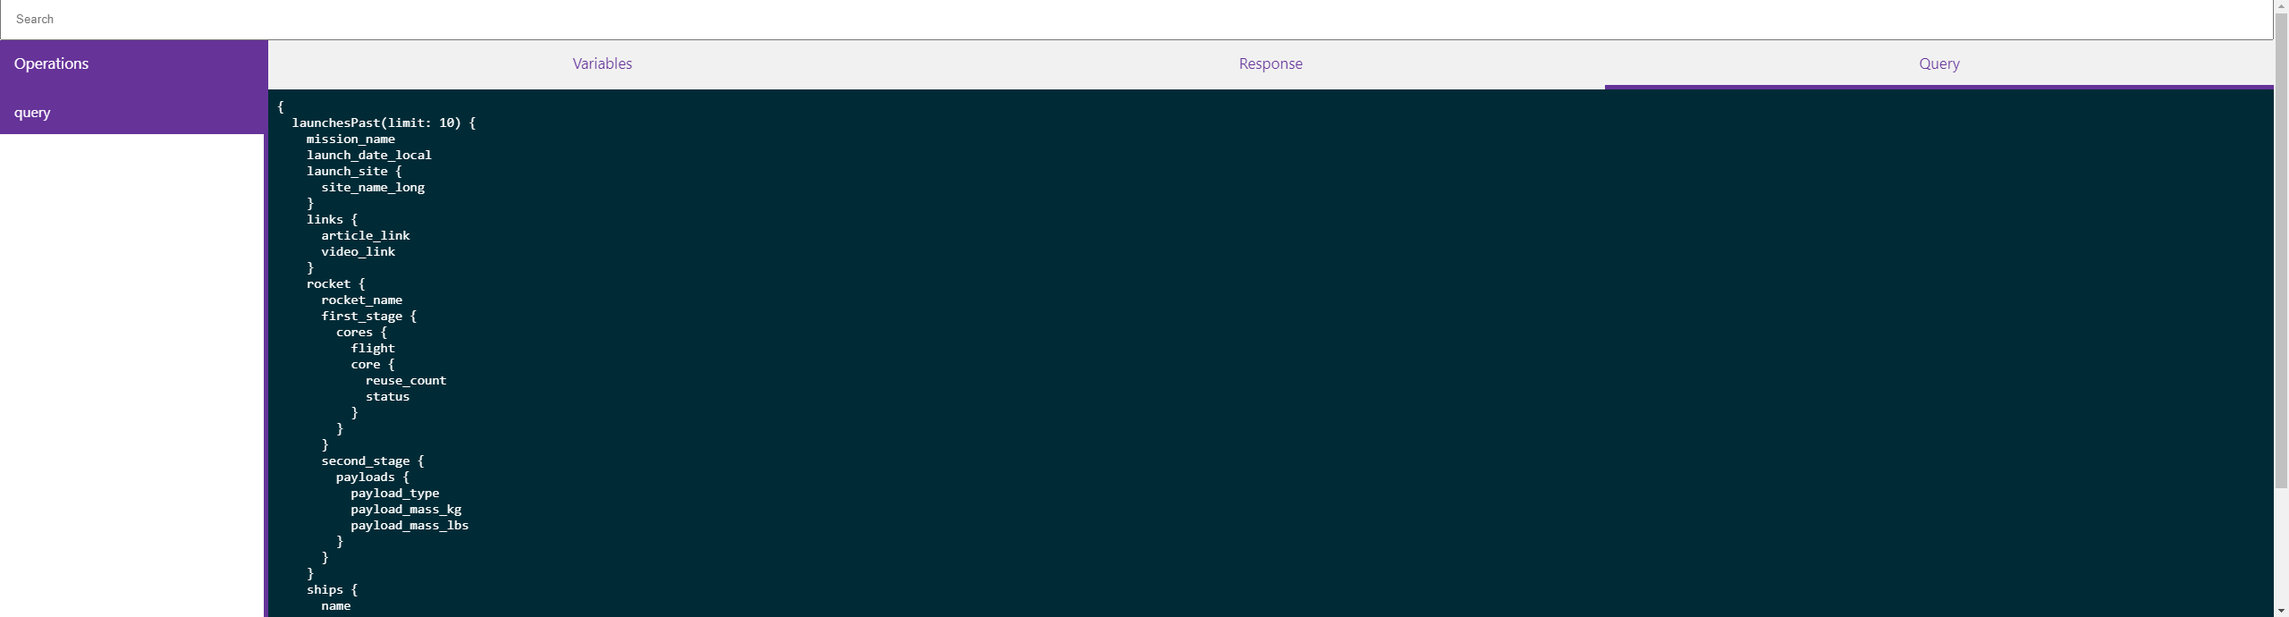
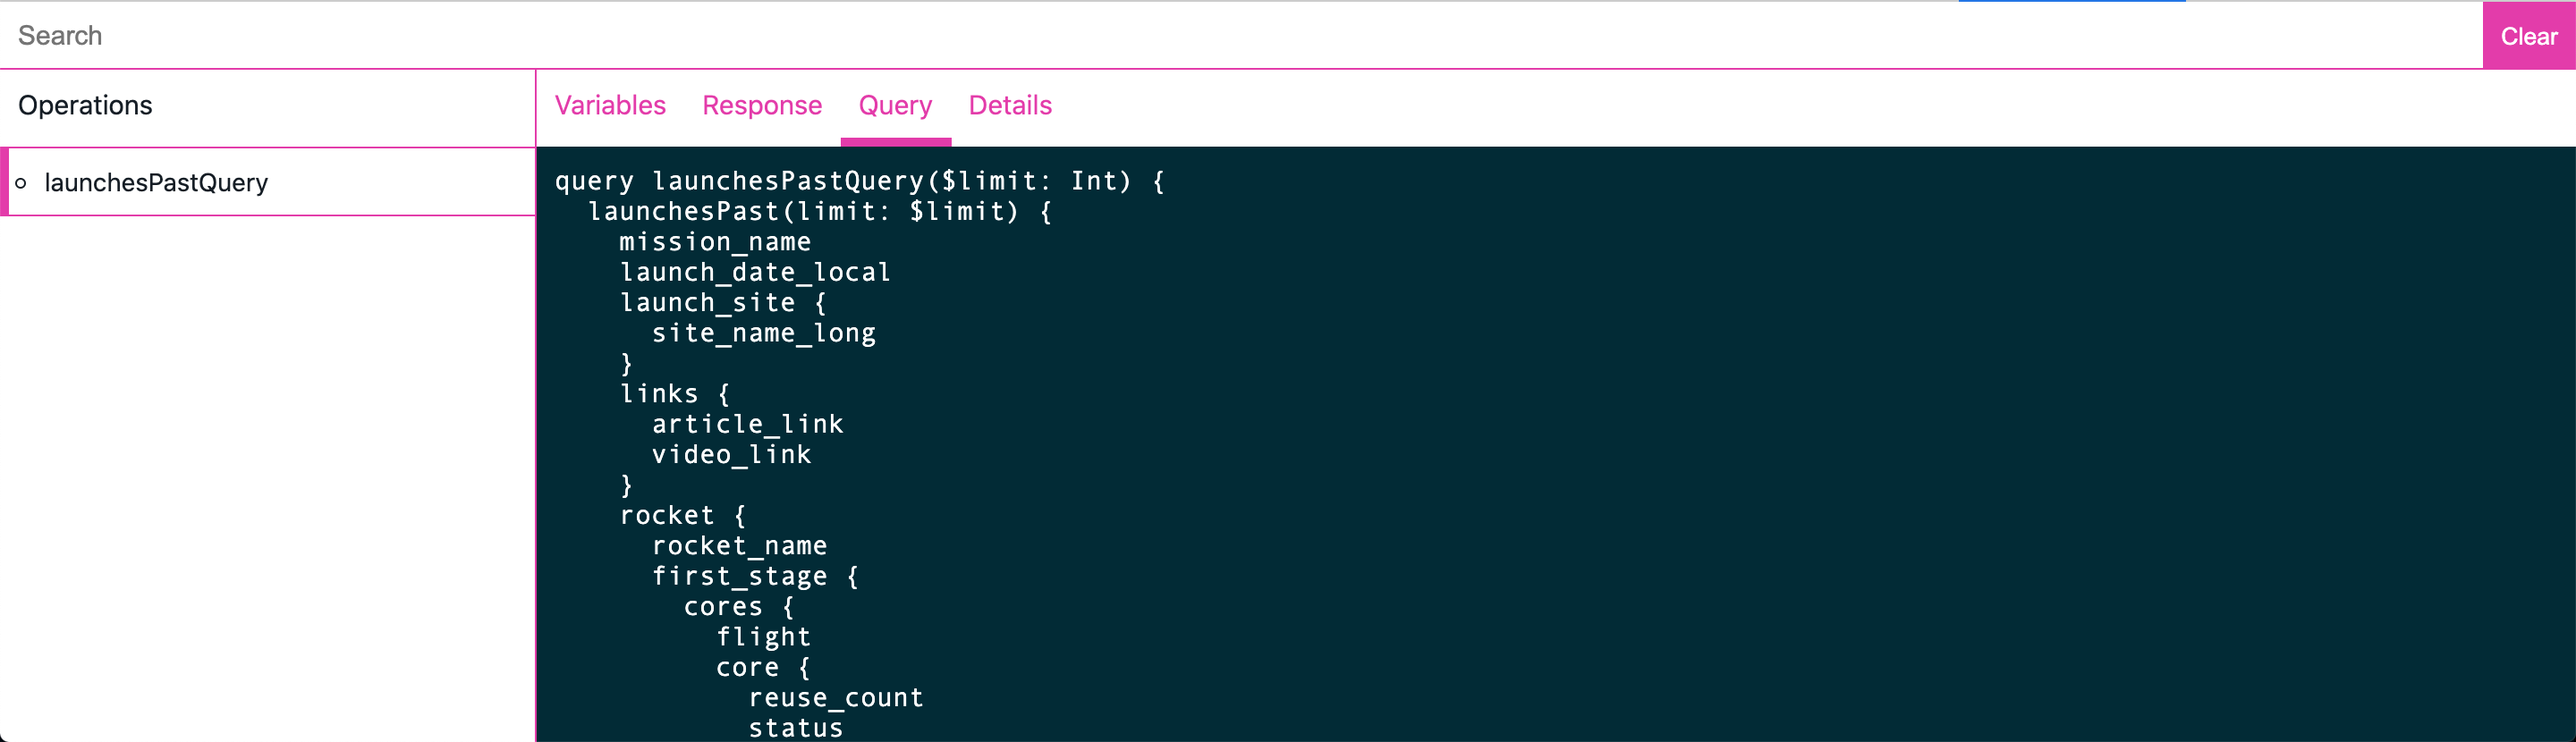
style: changed style to match grahql colors

Changed region(s): [[0.0, 0.0, 1.0, 1.0], [0.25, 0.6696, 0.375, 1.0], [0.25, 0.5174, 0.3438, 0.6391]]

diff --git a/src/devtools/App.tsx b/src/devtools/App.tsx
@@ -2,21 +2,19 @@ import React, { useCallback, useEffect, useMemo, useState } from "react";
 import { List, ListItem } from "./components/List";
 import SearchField from "./components/SearchField";
 import { TabList, Tabs, Tab, TabPanels, TabPanel } from "./components/Tabs";
-import { isGraphQL, parseEntry } from "./utils";
+import { parseEntry } from "./utils";
 import JSONTree from "react-json-tree";
+import { isGraphQL } from "./utils/isGraphql";
 
-interface DevToolsPanelProps {
-  requestFinished: any;
-  getHAR: any;
-}
-
-const DevToolsPanel: React.FC<DevToolsPanelProps> = ({ requestFinished }) => {
+const App: React.FC = () => {
   const [state, setState] = useState([]);
   const [search, setSearch] = useState<string>("");
   const [active, setActive] = useState(0);
 
   const requestHandler = useCallback(
     (request) => {
+      console.log('request', request, isGraphQL(request));
+
       if (!isGraphQL(request)) return null;
       return parseEntry(request).then((data: any[]) => {
         setState([...state, ...data]);
@@ -26,14 +24,16 @@ const DevToolsPanel: React.FC<DevToolsPanelProps> = ({ requestFinished }) => {
   );
 
   useEffect(() => {
-    requestFinished.addListener(requestHandler);
-    return () => requestFinished.removeListener(requestHandler);
+    console.log(chrome.devtools.network.onRequestFinished);
+
+    chrome.devtools.network.onRequestFinished.addListener(requestHandler);
+    return () => chrome.devtools.network.onRequestFinished.removeListener(requestHandler);
   }, [requestHandler]);
 
   const filteredRequests = useMemo(() => {
     const regex = new RegExp(search, "i");
     return state.filter(request => {
-      return request.data.some(operation => operation.name.match(regex));
+      return request?.data.some(operation => operation.name.match(regex));
     })
   }, [state, search])
 
@@ -46,7 +46,7 @@ const DevToolsPanel: React.FC<DevToolsPanelProps> = ({ requestFinished }) => {
     <div>
       <div style={{ display: 'flex', flexDirection: 'row' }}>
         <SearchField onChange={setSearch} value={search} />
-        <button style={{ border: 0, backgroundColor: 'rebeccapurple', color: 'white' }} onClick={() => setState([])}>Clear</button>
+        <button style={{ border: 0, backgroundColor: '#e535ab', padding: 10, color: 'white' }} onClick={() => setState([])}>Clear</button>
       </div>
       {filteredRequests.length === 0 ?
         <div style={{ color: '#444' }}>No results</div> :
@@ -97,4 +97,4 @@ const DevToolsPanel: React.FC<DevToolsPanelProps> = ({ requestFinished }) => {
   );
 };
 
-export default DevToolsPanel;
+export default App;

diff --git a/assets/panel.html b/assets/panel.html
@@ -18,13 +18,15 @@
   .layout {
     width: 100%;
     height: 100%;
-    /* background-color: #444; */
+    /* background-color: #161e26
+; */
     display: grid;
     grid-template-columns: 300px 1fr;
   }
 
   .tabs {
     width: 100%;
+    max-height: 100%;
   }
 
   .tabList {
@@ -34,23 +36,21 @@
 
   .tab {
     text-align: center;
-    width: 100%;
-    background-color: #f1f1f1;
-    color: rebeccapurple;
+    color: #e535ab;
     cursor: pointer;
-    padding: 14px 16px;
-    font-size: 17px;
-    border-bottom: 5px solid #f1f1f1;
+    padding: 10px;
+    font-size: 15px;
+    border-bottom: 5px solid white;
   }
 
   .tab:hover {
-    background-color: rebeccapurple;
-    border-bottom: 5px solid rebeccapurple;
+    background-color: #e535ab;
+    border-bottom: 5px solid #e535ab;
     color: white;
   }
 
   .tab.active {
-    border-bottom: 5px solid rebeccapurple;
+    border-bottom: 5px solid #e535ab;
   }
 
   .tabPanel {
@@ -64,16 +64,17 @@
   }
 
   .operations {
-    width: 100%;
-    background-color: rebeccapurple;
-    border-bottom: 5px solid rebeccapurple;
-    color: white;
-    padding: 14px 16px;
-    font-size: 17px;
+    background-color: white;
+    color: #161e26;
+    border-bottom: 1px solid #e535ab;
+    padding-top: 10px;
+    padding-bottom: 15px;
+    padding-left: 10px;
+    font-size: 15px;
   }
 
   .divider {
-    border-right: 5px solid rebeccapurple;
+    border-right: 1px solid #e535ab;
   }
 
   .list {
@@ -83,26 +84,25 @@
 
   .listItem {
     list-style-type: none;
-    color: #444;
-    border-bottom: 1px solid rebeccapurple;
-    padding: 14px 16px;
-    font-size: 16px;
+    color: #161e26;
+    border-bottom: 1px solid #e535ab;
+    padding: 10px;
+    font-size: 14px;
     cursor: pointer;
   }
 
   .listItem.active {
-    color: #fff;
-    background-color: rebeccapurple;
+    border-left: 5px solid #e535ab;
   }
 
   .searchField {
     width: 100%;
-    padding: 14px 16px;
-    color: rebeccapurple;
+    padding: 10px;
+    color: #e535ab;
     box-sizing: border-box;
-    border-radius: 0;
-    border: 2px solid rebeccapurple;
-    font-size: 17px;
+    border: 0;
+    border-bottom: 1px solid #e535ab;
+    font-size: 15px;
   }
 
   pre {

diff --git a/src/devtools/utils/index.ts b/src/devtools/utils/index.ts
@@ -1,5 +1,7 @@
 // https://github.com/Ghirro/graphql-network/blob/master/src/lib/utils.js
 import { parse } from "graphql";
+import { getQueryFromParams } from "./getQueryFromParams";
+import { isContentType } from "./isContentType";
 
 function getValue(value) {
   if (value.kind === "ListValue") {
@@ -72,42 +74,6 @@ function internalParse(requestData) {
   });
 }
 
-function isContentType(entry, contentType) {
-  return entry.request.headers.some(({ name, value }) => {
-    return (
-      name.toLowerCase() === "content-type" &&
-      value.split(";")[0].toLowerCase() === contentType.toLowerCase()
-    );
-  });
-}
-
-function getQueryFromParams(params = []) {
-  return decodeURIComponent(
-    params.find((param) => param.name === "query").value
-  );
-}
-
-export function isGraphQL(entry) {
-  try {
-    if (isContentType(entry, "application/graphql")) {
-      return true;
-    }
-
-    if (isContentType(entry, "application/json")) {
-      const json = JSON.parse(entry.request.postData.text);
-      return json.query || json[0].query;
-    }
-
-    if (
-      isContentType(entry, "application/x-www-form-urlencoded") &&
-      getQueryFromParams(entry.request.postData.params)
-    ) {
-      return true;
-    }
-  } catch (e) {
-    return false;
-  }
-}
 
 export function parseEntry(entry) {
   const parsedQueries = [];

diff --git a/src/devtools/utils/isGraphql.ts b/src/devtools/utils/isGraphql.ts
@@ -1,0 +1,26 @@
+import { getQueryFromParams } from "./getQueryFromParams";
+import { isContentType } from './isContentType'
+export function isGraphQL(entry) {
+  try {
+    if (isContentType(entry, "application/graphql")) {
+      return true;
+    }
+
+    if (isContentType(entry, "application/json")) {
+      const json = JSON.parse(entry.request.postData.text);
+      return json.query || json[0].query;
+    }
+
+    if (
+      isContentType(entry, "application/x-www-form-urlencoded") &&
+      getQueryFromParams(entry.request.postData.params)
+    ) {
+      return true;
+    }
+  } catch (e) {
+    console.log(e);
+
+    return false;
+  }
+}
+

diff --git a/src/panel.tsx b/src/panel.tsx
@@ -1,5 +1,4 @@
-/* global chrome */
-import DevToolsPanel from "./devtools/DevToolsPanel";
+import App from "./devtools/App";
 import React from "react";
 import ReactDOM from "react-dom";
 
@@ -14,10 +13,7 @@ function createPanel() {
       panel.onShown.addListener((panelWindow) => {
         if (!alreadyShown) {
           ReactDOM.render(
-            <DevToolsPanel
-              requestFinished={chrome.devtools.network.onRequestFinished}
-              getHAR={chrome.devtools.network.getHAR}
-            />,
+            <App />,
             panelWindow.document.getElementById("results")
           );
         }

diff --git a/src/devtools/utils/isContentType.ts b/src/devtools/utils/isContentType.ts
@@ -1,0 +1,8 @@
+export const isContentType = (entry, contentType) => {
+  return entry.request.headers.some(({ name, value }) => {
+    return (
+      name.toLowerCase() === "content-type" &&
+      value.split(";")[0].toLowerCase() === contentType.toLowerCase()
+    );
+  });
+}

diff --git a/src/devtools/utils/getQueryFromParams.ts b/src/devtools/utils/getQueryFromParams.ts
@@ -1,0 +1,5 @@
+export const getQueryFromParams = (params = []) => {
+  return decodeURIComponent(
+    params.find((param) => param.name === "query").value
+  );
+}

diff --git a/readme.md b/readme.md
@@ -1,8 +1,13 @@
 # GraphQL Request Inspector
 
+## Screenshots
+<details><summary>📷</summary>
+
 ![Variables](./assets/screenshots/variables.png)
 ![Response](./assets/screenshots/response.png)
 ![Query](./assets/screenshots/query.png)
+
+</details>
 
 ## Installation
 
@@ -12,3 +17,13 @@
 
 - `yarn`
 - `yarn build`
+
+## Roadmap
+
+- [ ] Testing coverage
+- [ ] GitHub actions
+- [ ] Dependabot
+- [ ] Release to store
+- [ ] Search patterns
+- [ ] Copy query
+- [ ] Open to Graphiql
